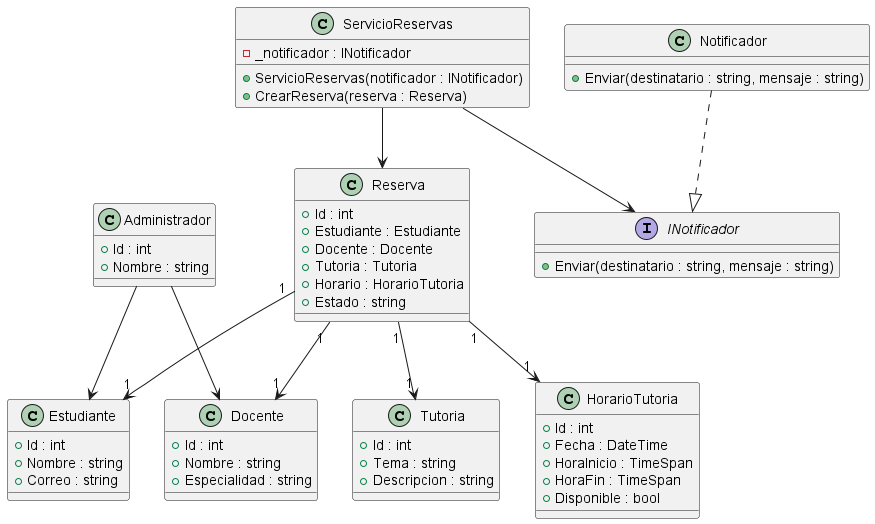
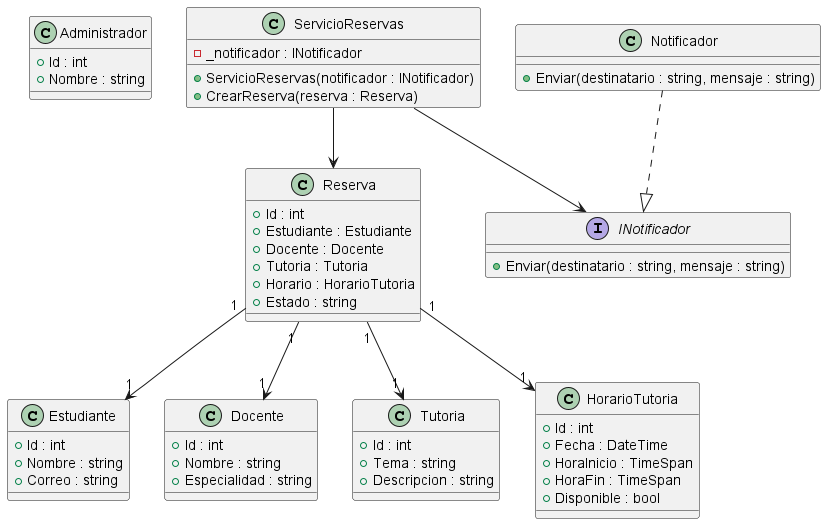
refactor: actualizar UML y datos de prueba

diff --git a/Program.cs b/Program.cs
@@ -5,14 +5,14 @@ using SistemaTutoria.Servicios;
 var estudiante = new Estudiante
 {
     Id = 1,
-    Nombre = "Juan Pérez",
-    Correo = "juan@email.com"
+    Nombre = "Jean Orozco",
+    Correo = "jean@email.com"
 };
 
 var docente = new Docente
 {
     Id = 1,
-    Nombre = "Pedro García",
+    Nombre = "Francisco Cevallos",
     Especialidad = "Programación"
 };
 
